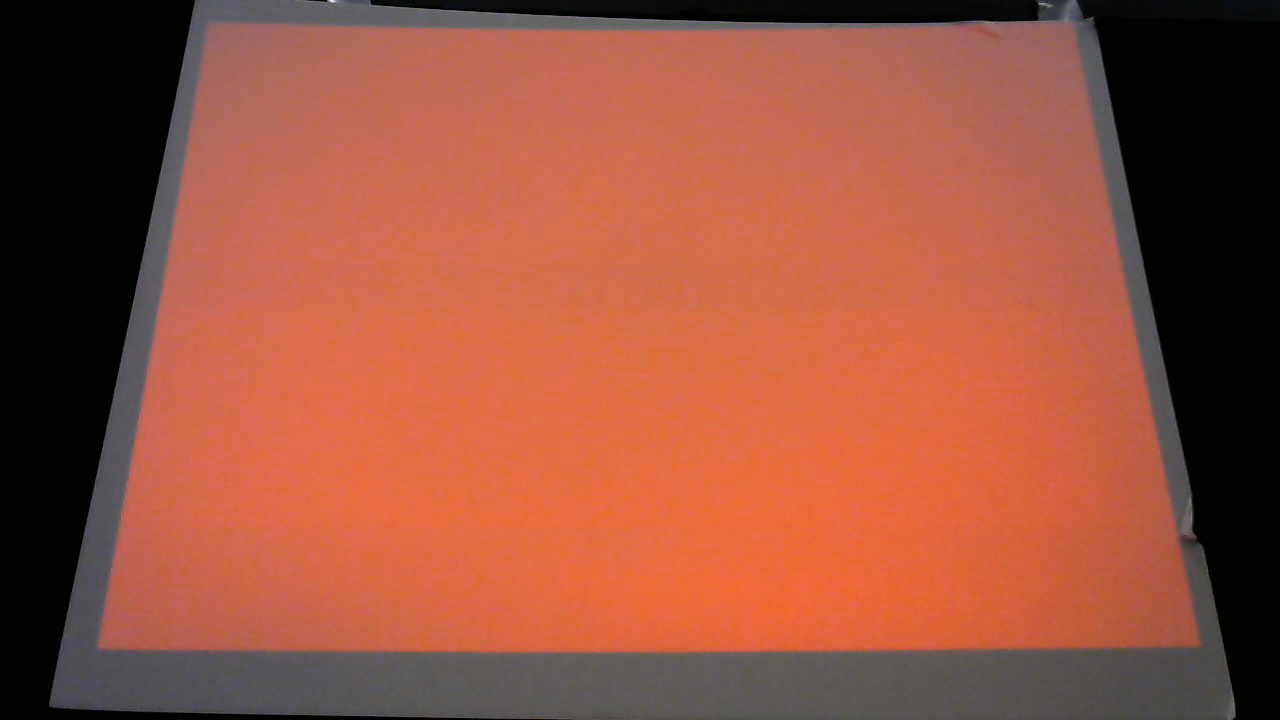
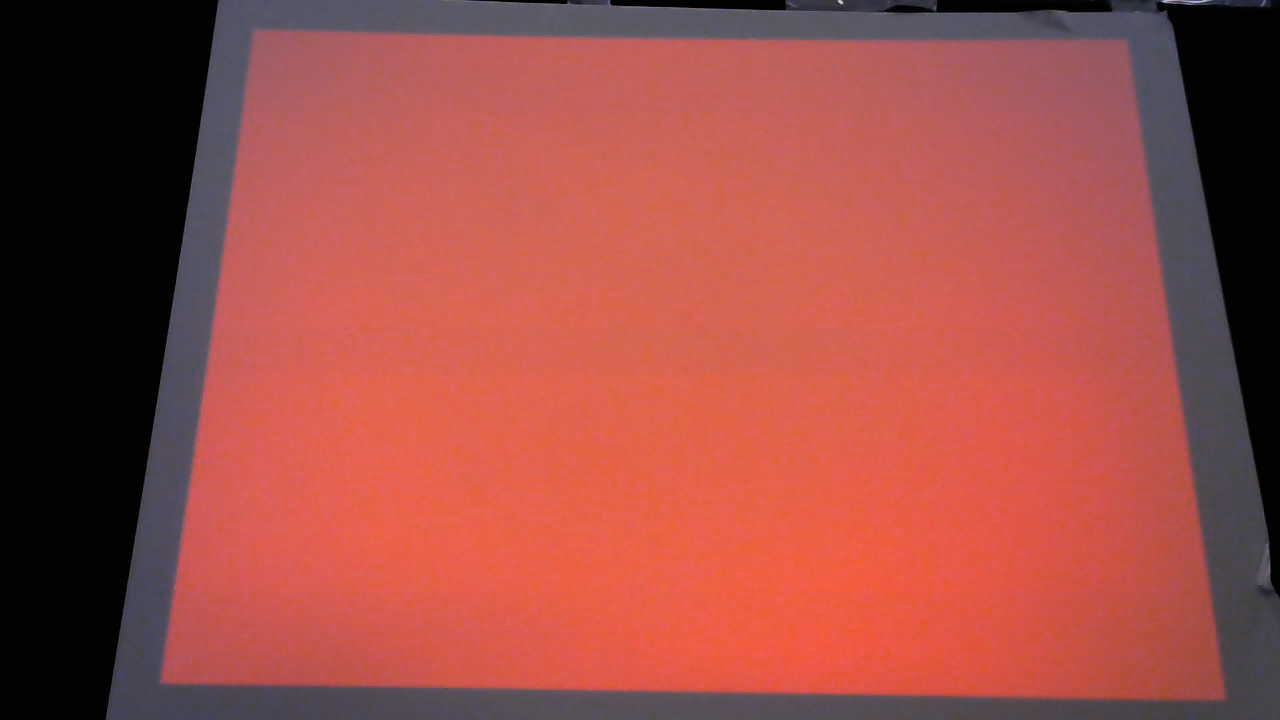
Entered the Age of Augmented Reality

Changed region(s): [[0.0312, 0.0, 1.0, 1.0], [0.5312, 0.7944, 0.5625, 0.825]]

diff --git a/StickyAR/stickys.py b/StickyAR/stickys.py
@@ -16,8 +16,8 @@ green = np.array([73, 138, 125])
 pink = np.array([113, 60, 201])
 blue = np.array([195, 160, 126])
 
-grid_width = 800
-grid_height = 600
+grid_height = 768
+grid_width = 1064
 
 calib_image_path = "state/current_calib.png"
 state_image_path = "state/current_state.png"
@@ -108,7 +108,7 @@ def lookForColor(image, transform_matrix, color, colorName, lowTolerance, highTo
 		g = int(g)
 		r = int(r)
 		cv.rectangle(image_redrawn, (x,y), (x + w, y + h), (b, g, r), 2)
-	return bounding_box_coords
+	return bounding_box_coords, image_redrawn
 				
 def lookForGreen(image, transform_matrix, grid_width, grid_height):
 	return lookForColor(image, transform_matrix, green, "green", 20, 25, grid_width, grid_height)
@@ -120,7 +120,7 @@ def lookForPink(image, transform_matrix, grid_width, grid_height):
 	return lookForColor(image, transform_matrix, pink, "pink", 40, 45, grid_width, grid_height)
 
 def lookForBlue(image, transform_matrix, grid_width, grid_height):
-	return lookForColor(image, transform_matrix, blue, "blue", 35, 40, grid_width, grid_height)
+	return lookForColor(image, transform_matrix, blue, "blue", 30, 35, grid_width, grid_height)
 
 def uncalibrate():
 	#if there already exists some calibration then we'll delete it
@@ -155,29 +155,30 @@ def updateSticky():
 		camera.release()
 		cv.imwrite(state_image_path, state_image)
 	
-	state_image = cv.imread(state_image_path)
+	state_image = cv.imread("state/current_state.png")
 
-	calib_image = cv.imread(calib_image_path)
+	calib_image = cv.imread("state/current_calib.png")
 	transform_matrix = genCalTransformMatrix(calib_image, red, 90, 80, grid_width, grid_height)
 
+	state_image_transformed = cv.warpPerspective(state_image, transform_matrix, (grid_width, grid_height))
 
-	bounding_box_coords = lookForGreen(state_image, transform_matrix, grid_width, grid_height)
-	orange_coords = lookForOrange(state_image, transform_matrix, grid_width, grid_height)
-	pink_coords = lookForPink(state_image, transform_matrix, grid_width, grid_height)
-	blue_coords = lookForBlue(state_image, transform_matrix, grid_width, grid_height)
+	bounding_box_coords, _ = lookForGreen(state_image_transformed, transform_matrix, grid_width, grid_height)
+	orange_coords, _ = lookForOrange(state_image_transformed, transform_matrix, grid_width, grid_height)
+	pink_coords, _ = lookForPink(state_image_transformed, transform_matrix, grid_width, grid_height)
+	blue_coords, _ = lookForBlue(state_image_transformed, transform_matrix, grid_width, grid_height)
 
 	for coord in orange_coords:
 		bounding_box_coords.append(coord)
 
 	for coord in pink_coords:
-		bounding_box_coords.append(coord)
+		#bounding_box_coords.append(coord)
 
 	for coord in blue_coords:
 		bounding_box_coords.append(coord)
 
 	return bounding_box_coords
 
-print(updateSticky())
+# print(updateSticky())
 
 """ cal_image = cv.imread("training/redCalibration2.jpg")
 cal_mask = maskByColor(cal_image, red, 90, 80)

diff --git a/StickyAR/StickyJump.py b/StickyAR/StickyJump.py
@@ -9,7 +9,7 @@ class StickyJump:
         if cv_data is None:
             self.cv_data = DEFAULT_CV
         else:
-            self.cv_ddata = cv_data
+            self.cv_data = cv_data
             
         # initialize game window, etc
         pg.init()

diff --git a/StickyAR/play.py b/StickyAR/play.py
@@ -16,6 +16,7 @@ class MyPrompt(Cmd):
     def do_p(self, inp):
         print("Entering the Game")
         currentState = updateSticky()
+        print("attempt at retrieving currentState")
         print(currentState)
         launch_game(currentState)
 

diff --git a/StickyAR/launch_game.py b/StickyAR/launch_game.py
@@ -2,7 +2,7 @@ from StickyJump import *
 from settings import *
 from sprites import *
 
-def launch_game(cv_data=None):
+def launch_game(cv_data):
     print("launching game")
     g = StickyJump(cv_data)
     g.show_start_screen()

diff --git a/StickyAR/settings.py b/StickyAR/settings.py
@@ -1,7 +1,7 @@
 # game options/settings
 TITLE = "StickyJUMP"
-WIDTH = 600    
-HEIGHT = 400
+WIDTH = 1024  
+HEIGHT = 768
 FPS = 60
 
 # Player properties
